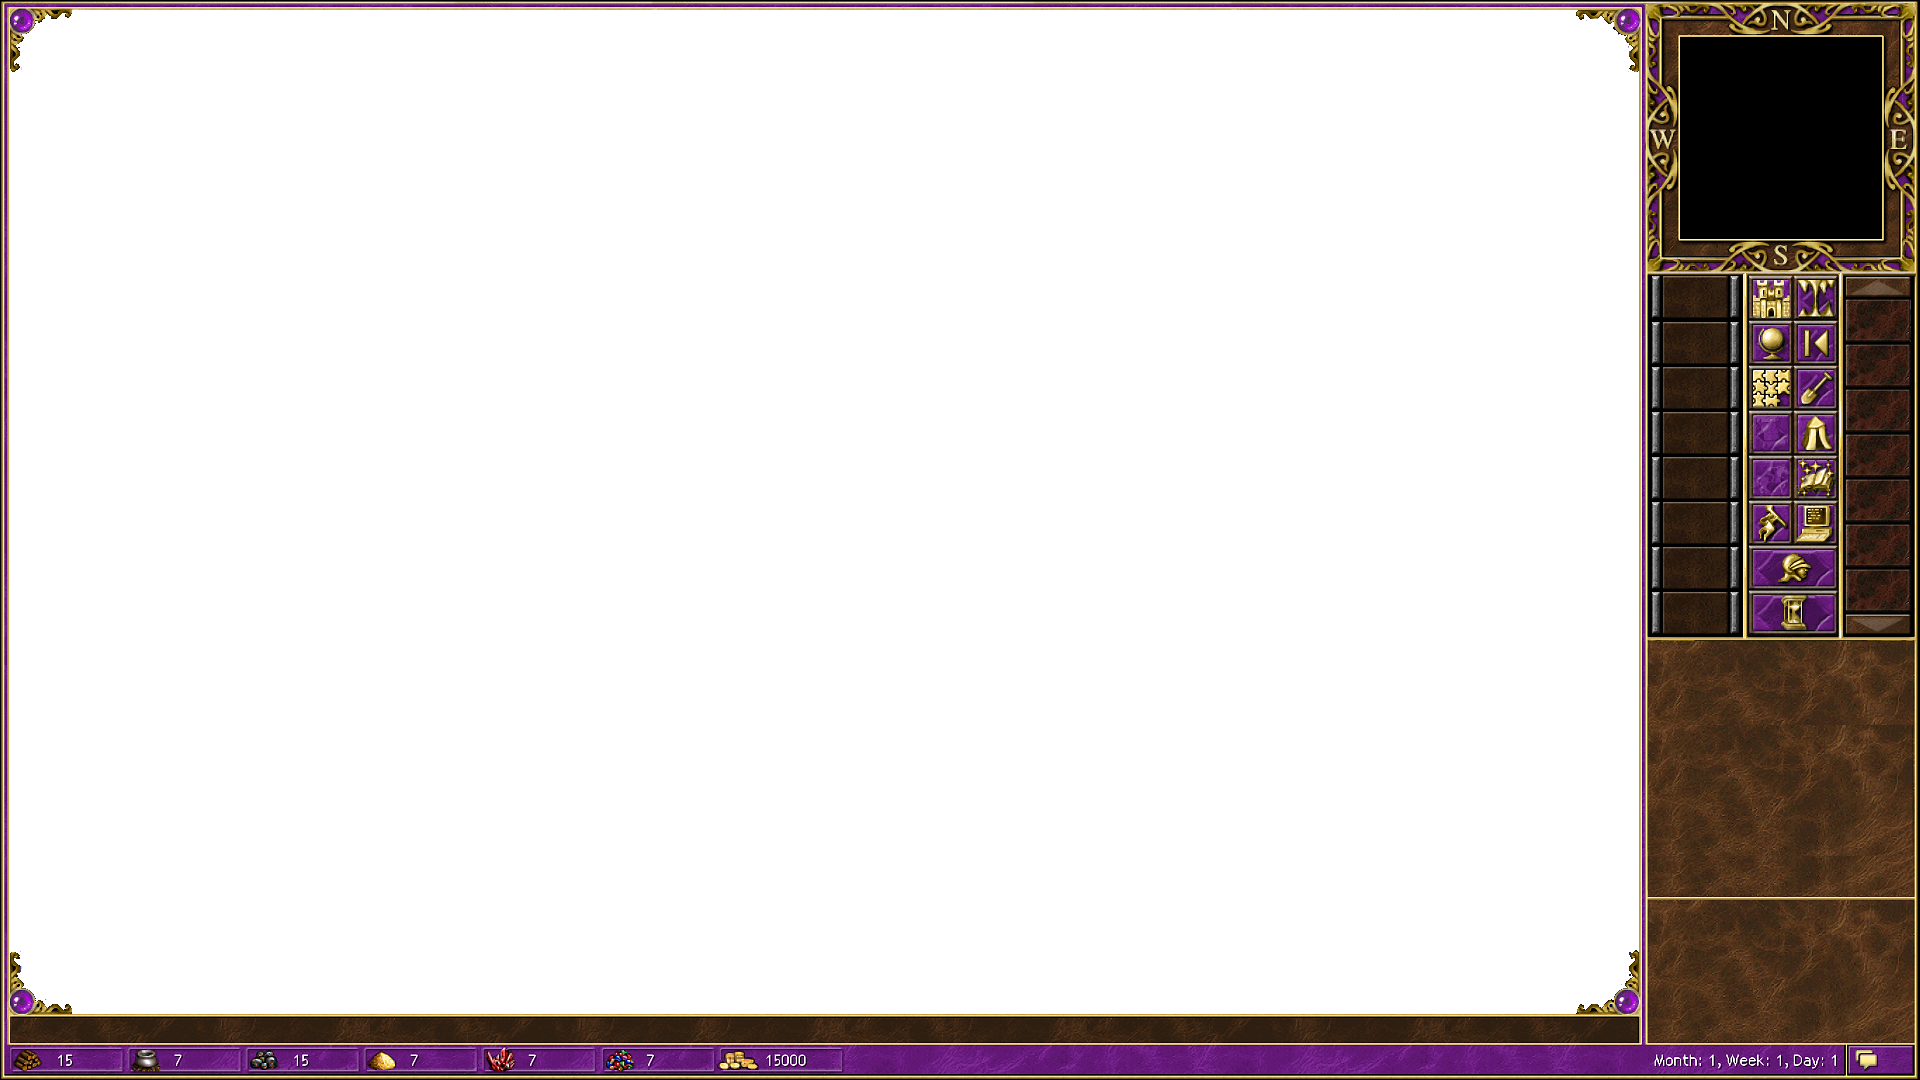
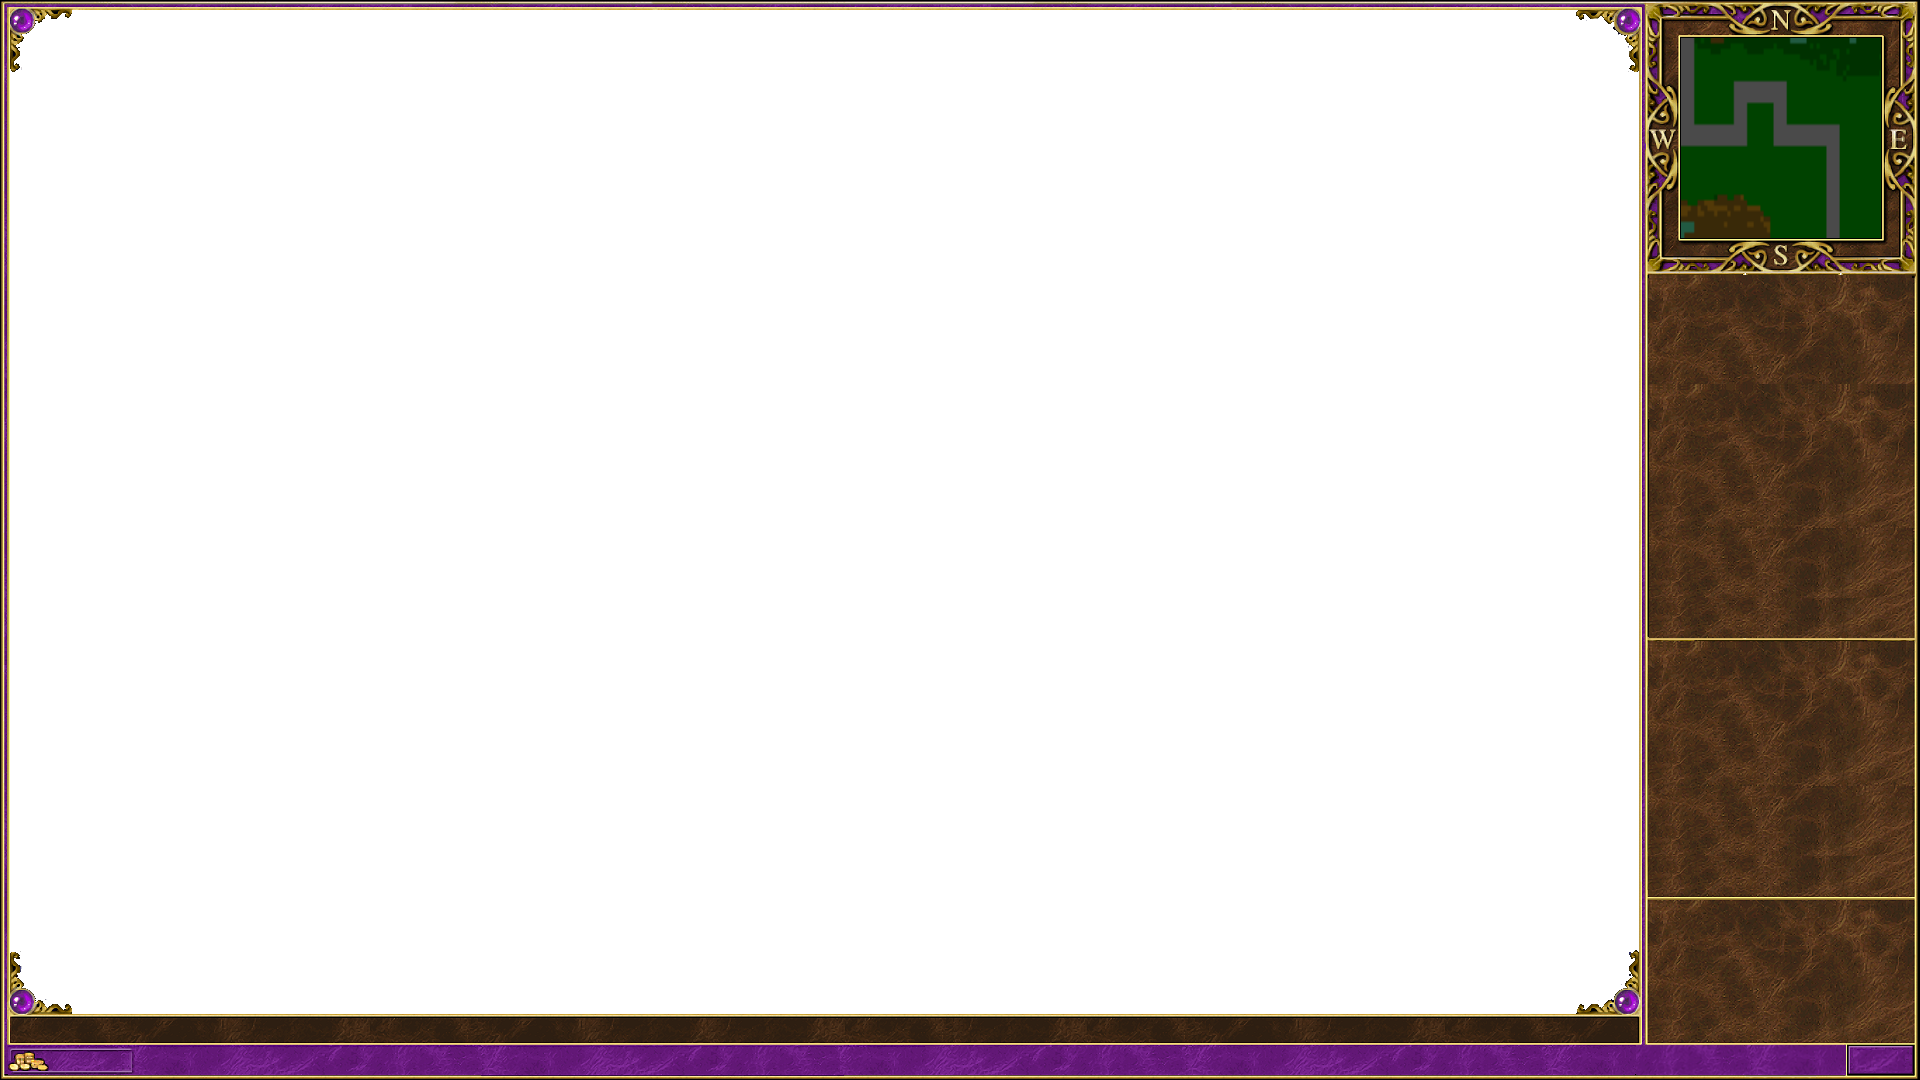
work on InGameState class moved map reading from MainMenuState to InGameState added Tower texture and rendering it

diff --git a/TowerDefense/InGameState.cpp b/TowerDefense/InGameState.cpp
@@ -1,11 +1,57 @@
 #include "InGameState.h"
 #include "Engine.h"
 
+
 InGameState::InGameState(shared_ptr<Font> MyFont, SDL_Renderer* pRenderer) : GameState(eStateID::INGAME)
 {
+    if (!ReadMap())
+    {
+        std::cout << "File could not be loaded!" << std::endl;
+        return;
+    }
     m_Font = MyFont;
     m_pRenderer = pRenderer;
 }
+
+bool InGameState::ReadMap()
+{
+    fstream stream("../Data/Map.txt");
+    if (!stream)
+    {
+        std::cout << "File could not be found!" << std::endl;
+        return false;
+    }
+
+    char tmp_char = 0;
+
+    while (true)
+    {
+        if (stream.eof())
+        {
+            return true;
+        }
+
+        for (int i = 0; i < 16; ++i)
+        {
+            for (int j = 0; j < 27;)
+            {
+                stream >> tmp_char;
+
+                if (tmp_char != ',' && tmp_char != ';')
+                {
+                    Table[i][j] = tmp_char;
+                    ++j;
+                }
+
+                if (tmp_char == ';')
+                {
+                    break;
+                }
+            }
+        }
+    }
+}
+
 
 InGameState::~InGameState()
 {
@@ -14,10 +60,25 @@ InGameState::~InGameState()
 
 void InGameState::DestroyTextures()
 {
+    SDL_DestroyTexture(m_pTexture);
+    SDL_DestroyTexture(m_pOverlayTexture);
+    m_pTexture = nullptr;
+    m_pOverlayTexture = nullptr;
 }
 
 void InGameState::InitializeInGameStateTextures()
 {
+    SDL_Surface* m_pImage = IMG_Load("../Data/Background.png");
+    m_pTexture = SDL_CreateTextureFromSurface(m_pRenderer, m_pImage);
+    SDL_FreeSurface(m_pImage);
+
+    m_pImage = IMG_Load("../Data/Overlay.png");
+    m_pOverlayTexture = SDL_CreateTextureFromSurface(m_pRenderer, m_pImage);
+    SDL_FreeSurface(m_pImage);
+
+    m_pImage = IMG_Load("../Data/some_tower.png");
+    m_pSomeTower = SDL_CreateTextureFromSurface(m_pRenderer, m_pImage);
+    SDL_FreeSurface(m_pImage);
 }
 
 void InGameState::Update(float DeltaTime)
@@ -27,8 +88,10 @@ void InGameState::Update(float DeltaTime)
         Mix_HaltChannel(-1);
         DestroyTextures();
         m_AllGameObjects.clear();
-        m_NextStateID = eStateID::MAINMENU;
+       // m_NextStateID = eStateID::MAINMENU;
+        Engine::GetSingleton()->ExitGame();
     }
+
 
     for (int i = 0; i < m_AllGameObjects.size();)
     {
@@ -49,6 +112,39 @@ void InGameState::Render()
 {
     SDL_SetRenderDrawColor(m_pRenderer, 0, 0, 0, 255);
     SDL_RenderClear(m_pRenderer);
+
+
+    SDL_Rect Map = { 0, 0, 1668, SCREEN_HEIGHT };
+    //SDL_SetRenderDrawColor(pRenderer, 255, 255, 255, 255);
+    //SDL_RenderFillRect(pRenderer, &dstrect);
+    SDL_RenderCopy(m_pRenderer, m_pTexture, NULL, &Map);
+
+
+    int x = Engine::GetSingleton()->GetMousePos().x;
+    int y = Engine::GetSingleton()->GetMousePos().y;
+
+    int CellX = (x / 64);
+    int CellY = (y / 64);
+
+    char Test = Table[CellY % 16][CellX % 26];
+
+    if (Test == '1')
+        SDL_SetRenderDrawColor(m_pRenderer, 255, 255, 255, 255);
+    else
+        SDL_SetRenderDrawColor(m_pRenderer, 255, 0, 0, 255);
+
+    SDL_Rect rect = { CellX * 64, CellY * 64, 64, 64 };
+    SDL_RenderDrawRect(m_pRenderer, &rect);
+
+    SDL_Rect Overlay = { 0, 0, SCREEN_WIDTH, SCREEN_HEIGHT };
+    SDL_RenderCopy(m_pRenderer, m_pOverlayTexture, NULL, &Overlay);
+
+    SDL_Rect Some_tower = { 1640, 280, 97, 95 };
+    SDL_RenderCopy(m_pRenderer, m_pSomeTower, NULL, &Some_tower);
+
+    SDL_RenderPresent(m_pRenderer);
+
+
 
     // render wszystkich obiektow
     for (int i = 0; i < m_AllGameObjects.size(); ++i)

diff --git a/TowerDefense/MainMenuState.cpp b/TowerDefense/MainMenuState.cpp
@@ -3,54 +3,9 @@
 
 MainMenuState::MainMenuState(shared_ptr<Font> MyFont, SDL_Renderer* pRenderer) : GameState(eStateID::MAINMENU)
 {
-    if (ReadMap() == false)
-    {
-        std::cout << "File could not be loaded!" << std::endl;
-        return;
-    }
     m_Font = MyFont;
     m_pRenderer = pRenderer;
 }
-
-bool MainMenuState::ReadMap()
-{
-    fstream stream("../Data/Map.txt");
-    if (!stream)
-    {
-        std::cout << "File could not be found!" << std::endl;
-        return false;
-    }
-
-    char tmp_char = 0;
-
-    while (true)
-    {
-        if (stream.eof())
-        {
-            return true;
-        }
-
-        for (int i = 0; i < 16; ++i)
-        {
-            for (int j = 0; j < 27;)
-            {
-                stream >> tmp_char;
-
-                if (tmp_char != ',' && tmp_char != ';')
-                {
-                    Table[i][j] = tmp_char;
-                    ++j;
-                }
-
-                if (tmp_char == ';')
-                {
-                    break;
-                }
-            }
-        }
-    }
-}
-
 
 MainMenuState::~MainMenuState()
 {
@@ -59,27 +14,15 @@ MainMenuState::~MainMenuState()
 
 void MainMenuState::DestroyTextures()
 {
-    SDL_DestroyTexture(m_pTexture);
-    SDL_DestroyTexture(m_pOverlayTexture);
-    m_pTexture = nullptr;
-    m_pOverlayTexture = nullptr;
 }
 
 void MainMenuState::InitializeMainMenuStateTextures()
 {
-    SDL_Surface* m_pImage = IMG_Load("../Data/Background.png");
-    m_pTexture = SDL_CreateTextureFromSurface(m_pRenderer, m_pImage);
-    SDL_FreeSurface(m_pImage);
-
-    m_pImage = IMG_Load("../Data/Overlay.png");
-    m_pOverlayTexture = SDL_CreateTextureFromSurface(m_pRenderer, m_pImage);
-    SDL_FreeSurface(m_pImage);
 }
 
 void MainMenuState::OnEnter()
 {
     GameState::OnEnter();
-
     InitializeMainMenuStateTextures();
 }
 
@@ -111,31 +54,6 @@ void MainMenuState::Render()
 {
     SDL_SetRenderDrawColor(m_pRenderer, 0, 0, 0, 255);
     SDL_RenderClear(m_pRenderer);
-   
-    SDL_Rect dstrect = { 0, 0, 1668, SCREEN_HEIGHT };
-    //SDL_SetRenderDrawColor(pRenderer, 255, 255, 255, 255);
-    //SDL_RenderFillRect(pRenderer, &dstrect);
-    SDL_RenderCopy(m_pRenderer, m_pTexture, NULL, &dstrect);
-
-
-    int x = Engine::GetSingleton()->GetMousePos().x;
-    int y = Engine::GetSingleton()->GetMousePos().y;
-
-    int CellX = (x/64);
-    int CellY = (y/64);
-
-    char Test = Table[CellY%16][CellX%26];
-    
-    if( Test == '1' )
-        SDL_SetRenderDrawColor(m_pRenderer, 255, 255, 255, 255);
-    else
-        SDL_SetRenderDrawColor(m_pRenderer, 255, 0, 0, 255);
-
-    SDL_Rect rect = {CellX*64, CellY*64, 64, 64};
-    SDL_RenderDrawRect(m_pRenderer, &rect);
-    
-    SDL_Rect Overlay = {0, 0, SCREEN_WIDTH, SCREEN_HEIGHT};
-    SDL_RenderCopy(m_pRenderer, m_pOverlayTexture, NULL, &Overlay);
 
     SDL_RenderPresent(m_pRenderer);
 }

diff --git a/TowerDefense/InGameState.h b/TowerDefense/InGameState.h
@@ -12,8 +12,13 @@ public:
     void OnEnter()override;
     void CreateObject();
     void DestroyTextures();
+    bool ReadMap();
 
 private:
+    SDL_Texture* m_pTexture = nullptr;
+    SDL_Texture* m_pOverlayTexture = nullptr;
+    SDL_Texture* m_pSomeTower = nullptr;
     vector<shared_ptr<GameObject>> m_AllGameObjects;
+    char Table[16][26] = {};
 };
 

diff --git a/TowerDefense/MainMenuState.h b/TowerDefense/MainMenuState.h
@@ -12,12 +12,9 @@ public:
     void Render()override;
     void OnKeyDown(SDL_Scancode KeyCode)override;
     void OnEnter()override;
-    bool ReadMap();
+
 private:
-    SDL_Texture* m_pTexture = nullptr;
-    SDL_Texture* m_pOverlayTexture = nullptr;
     int m_Option = 0;
     bool m_PlayMusicAgain = true;
-    char Table[16][26] = {};
 };
 

diff --git a/TowerDefense/Engine.cpp b/TowerDefense/Engine.cpp
@@ -72,7 +72,7 @@ bool Engine::Initialize()
     m_AllStates.push_back(make_unique<MainMenuState>(MyFont, m_pRenderer));
 
     // pierwszym stanem jest Menu gry
-    ChangeState(eStateID::MAINMENU);
+    ChangeState(eStateID::INGAME);
 
     return true;
 }
